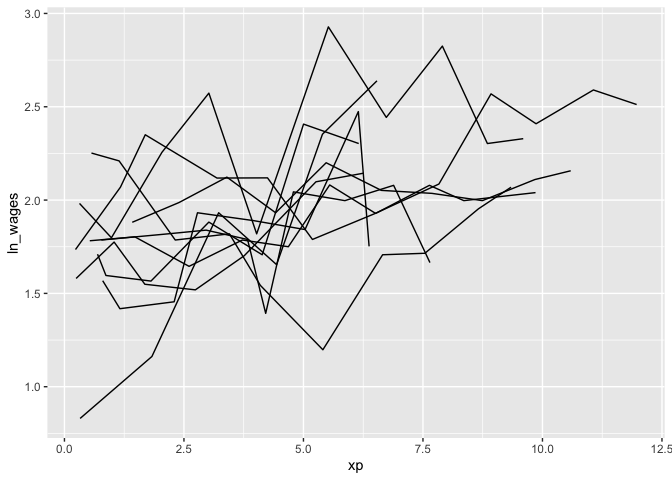
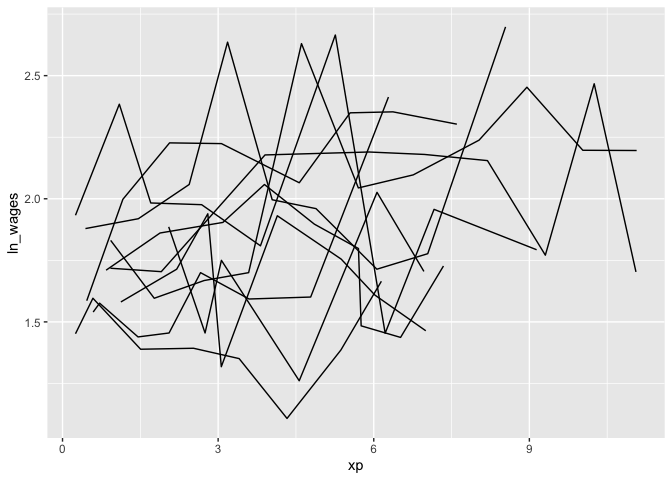
basic changes to remove spelling mistakes

diff --git a/README.md b/README.md
@@ -190,10 +190,11 @@ n_key_obs(wages_ts)
 #> # … with 878 more rows
 ```
 
-This returns one row per key, with the number of observations per key.
+This returns a dataframe, with one row per key, and the number of
+observations for each key.
 
-This could be further summarised to get a sense of the range of the
-data:
+This could be further summarised to get a sense of the patterns of the
+number of observations:
 
 ``` r
 library(ggplot2)
@@ -293,6 +294,7 @@ wages_ts %>%
 You can take a random sample of `n` keys using `sample_n_keys()`:
 
 ``` r
+set.seed(2019-7-15-1300)
 wages_ts %>%
   sample_n_keys(size = 10) %>%
   ggplot(aes(x = xp,
@@ -307,6 +309,7 @@ You could also combine with this `filter_n_obs` to only show keys with
 many observations:
 
 ``` r
+set.seed(2019-7-15-1259)
 wages_ts %>%
   filter_n_obs(n_obs > 5) %>%
   sample_n_keys(size = 10) %>%
@@ -332,21 +335,21 @@ function, which adds the column, `.strata`:
 wages_ts %>%
   sample_n_keys(100) %>% 
   stratify_keys(n_strata = 10)
-#> # A tsibble: 724 x 10 [!]
+#> # A tsibble: 737 x 10 [!]
 #> # Key:       id [100]
 #>       id ln_wages    xp   ged postexp black hispanic high_grade
 #>    <int>    <dbl> <dbl> <int>   <dbl> <int>    <int>      <int>
-#>  1   234     1.57 1.10      1    1.10     0        0          9
-#>  2   234     1.54 2.35      1    2.35     0        0          9
-#>  3   234     1.68 3.36      1    3.36     0        0          9
-#>  4   234     1.87 4.42      1    4.42     0        0          9
-#>  5   234     1.71 5.92      1    5.92     0        0          9
-#>  6   234     1.56 7.42      1    7.42     0        0          9
-#>  7   234     2.00 8.36      1    8.36     0        0          9
-#>  8   329     1.42 0.016     0    0        0        1          8
-#>  9   329     1.31 0.716     0    0        0        1          8
-#> 10   329     1.88 1.76      0    0        0        1          8
-#> # … with 714 more rows, and 2 more variables: unemploy_rate <dbl>,
+#>  1    53     1.76 0.781     0   0         0        1          7
+#>  2    53     1.54 0.943     0   0         0        1          7
+#>  3    53     3.24 0.957     1   0         0        1          7
+#>  4    53     1.60 1.04      1   0.08      0        1          7
+#>  5    53     1.57 1.06      1   0.1       0        1          7
+#>  6    53     1.88 1.11      1   0.152     0        1          7
+#>  7    53     1.89 1.18      1   0.227     0        1          7
+#>  8    53     1.66 1.78      1   0.82      0        1          7
+#>  9   145     1.56 0.235     0   0         0        0         10
+#> 10   145     1.48 0.828     1   0.473     0        0         10
+#> # … with 727 more rows, and 2 more variables: unemploy_rate <dbl>,
 #> #   .strata <int>
 ```
 
@@ -354,6 +357,7 @@ This then allows the user to create facetted plots showing a lot more of
 the raw data
 
 ``` r
+set.seed(2019-07-15-1258)
 wages_ts %>%
   sample_n_keys(120) %>% 
   stratify_keys(n_strata = 12) %>%
@@ -534,7 +538,7 @@ wages_ts %>%
 #> # … with 878 more rows
 ```
 
-Or finding those whos values only increase or decrease with `monotonic`
+Or finding those whose values only increase or decrease with `monotonic`
 
 ``` r
 wages_ts %>%
